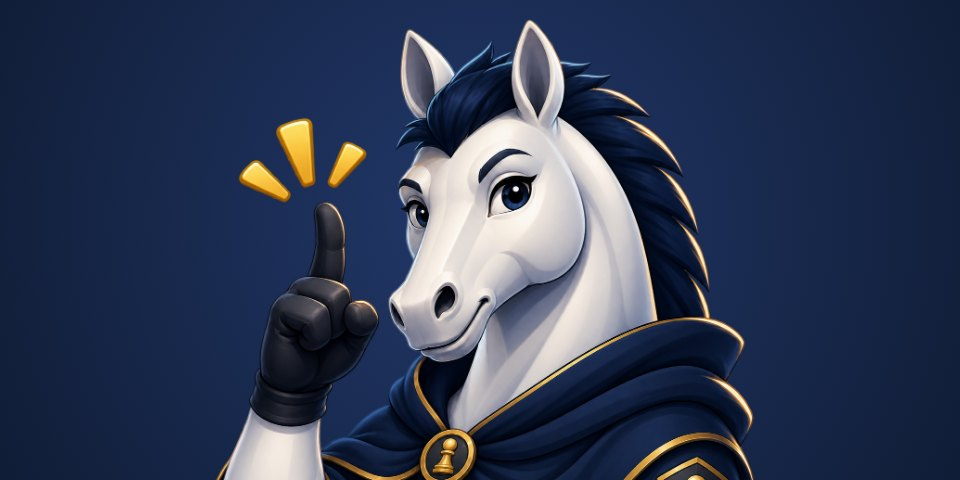
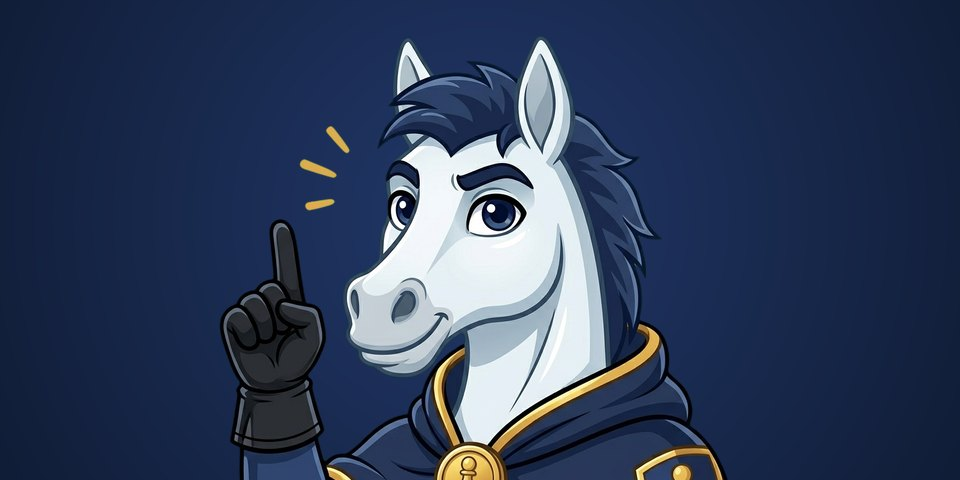
v224: new modern Kael art replaces the old painterly pictures
tools/kael-art.py keys Adrian's 18 green-screen drawings to transparent
PNGs (outside the repo) and writes the four shipped files at display x3:
kael-bust 390, kael-welcome 390 wide, notif daily 192 and daily-wide
960x480. resize-notif.mjs now makes only the badge, so it cannot redraw
the old art. tools/cdp-verify-kael-art.mjs checks every place Kael shows.

diff --git a/sw.js b/sw.js
@@ -1,4 +1,4 @@
-const CACHE = 'chess-training-center-v223';
+const CACHE = 'chess-training-center-v224';
 // Transient hand-off for the Web Share Target: the POST below stashes the shared
 // file here and the app reads it on the next load. Kept OUT of the version wipe in
 // `activate` so an update mid-share doesn't drop it.

diff --git a/tools/kael-art.py b/tools/kael-art.py
@@ -1,0 +1,117 @@
+"""Kael art: green-screen key + the shipped sizes. Dev tool, not shipped.
+
+    python -I tools/kael-art.py [artDir]        (artDir defaults to ../chess-app-art/kael)
+
+The drawings (1024x1024 JPEG *.jfif on flat #00FF00) live OUTSIDE the repo.
+Step 1 keys every one of them to a transparent 1024 PNG in <artDir>/final/
+(the three widget pictures also at 512); kael-widget-atrisk was drawn
+mirrored, so it is flipped. Step 2 writes what the app ships, sized from the
+largest place each is shown x 3 for phone pixel density:
+  icons/kael/kael-bust.png     390 square   (.kael-portrait is 130px wide)
+  icons/kael/kael-welcome.png  390 wide     (same), trimmed to the figure
+  icons/notif/daily.png        192 square   kael-notif, notification icon
+  icons/notif/daily-wide.jpg   960x480      kael-notif on navy, expanded notification
+icons/notif/badge.png is not Kael: tools/resize-notif.mjs makes it.
+"""
+import sys, os, glob
+import numpy as np
+from PIL import Image, ImageFilter
+
+ROOT = os.path.dirname(os.path.dirname(os.path.abspath(__file__)))
+ART = sys.argv[1] if len(sys.argv) > 1 else os.path.join(os.path.dirname(ROOT), 'chess-app-art', 'kael')
+FINAL = os.path.join(ART, 'final')
+FLIP = {'kael-widget-atrisk'}
+WIDGET = {'kael-widget-lit', 'kael-widget-atrisk', 'kael-widget-zero'}
+LO, HI = 28.0, 110.0   # greenness (g - max(r, b)) over which alpha falls from 1 to 0
+
+
+def key(path):
+    """Transparent RGBA from a green-screen JPEG: alpha from how green each
+    pixel is, green spill clamped, JPEG speckle removed, edge pulled in ~1px."""
+    im = np.asarray(Image.open(path).convert('RGB')).astype(np.float32)
+    d = im[..., 1] - np.maximum(im[..., 0], im[..., 2])
+    a = np.clip(1.0 - (d - LO) / (HI - LO), 0.0, 1.0)
+    im[..., 1] = np.minimum(im[..., 1], np.maximum(im[..., 0], im[..., 2]))
+    A = Image.fromarray((a * 255).astype(np.uint8))
+    A = A.filter(ImageFilter.MedianFilter(3)).filter(ImageFilter.MinFilter(3)).filter(ImageFilter.GaussianBlur(0.6))
+    A = np.asarray(A).astype(np.float32)
+    A[A < 8] = 0
+    im[A == 0] = 0
+    return Image.fromarray(np.dstack([im, A]).astype(np.uint8), 'RGBA')
+
+
+def resize(pic, size):
+    """Premultiplied Lanczos resize, so no colour bleeds in from clear pixels."""
+    a = np.asarray(pic.convert('RGBA')).astype(np.float32) / 255
+    pm = np.dstack([a[..., :3] * a[..., 3:4], a[..., 3]])
+    r, g, b, A = [np.asarray(Image.fromarray(pm[..., i] * 255, 'F').resize(size, Image.LANCZOS)) / 255 for i in range(4)]
+    A = np.clip(A, 0, 1)
+    rgb = np.clip(np.dstack([r, g, b]) / np.maximum(A, 1e-4)[..., None], 0, 1)
+    rgb[..., 1] = np.minimum(rgb[..., 1], np.maximum(rgb[..., 0], rgb[..., 2]))
+    rgb[A < 1 / 255] = 0
+    return Image.fromarray(np.dstack([rgb * 255, A * 255]).round().astype(np.uint8), 'RGBA')
+
+
+def trim(pic, pad=16):
+    x0, y0, x1, y1 = pic.getchannel('A').point(lambda v: 255 if v > 8 else 0).getbbox()
+    return pic.crop((max(x0 - pad, 0), max(y0 - pad, 0), min(x1 + pad, pic.width), min(y1 + pad, pic.height)))
+
+
+def banner(pic, w, h):
+    """The expanded-notification picture: Android crops it to about 2:1, so the
+    bust is drawn taller than the banner and runs off the bottom edge, on the
+    app's navy (radial #22386a -> #0f1b33). Opaque, so JPEG."""
+    yy, xx = np.mgrid[0:h, 0:w].astype(np.float32)
+    t = np.clip(np.hypot(xx - w / 2, yy - h * 0.45) / (w * 0.6), 0, 1)[..., None]
+    bg = np.array([0x22, 0x38, 0x6a]) * (1 - t) + np.array([0x0f, 0x1b, 0x33]) * t
+    out = Image.fromarray(bg.round().astype(np.uint8), 'RGB').convert('RGBA')
+    ih = round(h * 1.25); iw = round(pic.width * ih / pic.height)
+    out.alpha_composite(resize(pic, (iw, ih)), (round((w - iw) / 2), round(h * 0.04)))
+    return out.convert('RGB')
+
+
+def smooth(pic):
+    """Median-filter the colour (not the alpha): the JPEG noise in the
+    drawings is what makes a PNG big, and the flat cartoon art loses nothing."""
+    rgb = pic.convert('RGB').filter(ImageFilter.MedianFilter(3))
+    return Image.merge('RGBA', (*rgb.split(), pic.getchannel('A')))
+
+
+def save(pic, rel, budget=100 * 1024):
+    """A .png is precached, so it must stay small: round the colours to the
+    finest step that fits the budget (step 4 is invisible on this art)."""
+    path = os.path.join(ROOT, rel)
+    if rel.endswith('.jpg'):
+        pic.save(path, quality=86, optimize=True)
+    else:
+        for step in (1, 2, 4, 6, 8):
+            a = np.asarray(pic).astype(np.int32)
+            a[..., :3] = np.clip((a[..., :3] + step // 2) // step * step, 0, 255)
+            a[..., 3][a[..., 3] > 247] = 255
+            a[a[..., 3] == 0, :3] = 0
+            Image.fromarray(a.astype(np.uint8), 'RGBA').save(path, optimize=True)
+            if os.path.getsize(path) <= budget:
+                break
+        print(f'  colour step {step}')
+    print(f'{rel}  {pic.width}x{pic.height}  {os.path.getsize(path) / 1024:.1f} KB')
+
+
+os.makedirs(FINAL, exist_ok=True)
+keyed = {}
+for f in sorted(glob.glob(os.path.join(ART, '*.jfif'))):
+    name = os.path.splitext(os.path.basename(f))[0]
+    name = 'kael-model-sheet' if name == 'model sheet' else name
+    pic = key(f)
+    if name in FLIP:
+        pic = pic.transpose(Image.FLIP_LEFT_RIGHT)
+    pic.save(os.path.join(FINAL, name + '.png'), optimize=True)
+    if name in WIDGET:
+        resize(pic, (512, 512)).save(os.path.join(FINAL, name + '-512.png'), optimize=True)
+    keyed[name] = pic
+print(f'{len(keyed)} keyed into {FINAL}')
+
+save(resize(smooth(keyed['kael-bust']), (390, 390)), 'icons/kael/kael-bust.png')
+wel = smooth(trim(keyed['kael-welcome']))
+save(resize(wel, (390, round(wel.height * 390 / wel.width))),'icons/kael/kael-welcome.png')
+save(resize(smooth(keyed['kael-notif']), (192, 192)), 'icons/notif/daily.png')
+save(banner(keyed['kael-notif'], 960, 480), 'icons/notif/daily-wide.jpg')

diff --git a/HANDOVER.md b/HANDOVER.md
@@ -9,6 +9,29 @@ are in `CLAUDE.md` under "Finish by pushing".
 
 ## Already done and pushed — do NOT redo these
 
+- **NEW MODERN KAEL ART IN THE APP (2026-10-14, v224).** Adrian's 18 new drawings (1024 JPEG
+  `.jfif` on #00FF00, in `C:\Users\Adrian\chess-app-art\kael\`, OUTSIDE the repo, canon in its
+  KAEL-PROMPTS.md) replace the old painterly Kael. ONE TOOL: `python -I tools/kael-art.py`.
+  It keys all 18 to transparent 1024 PNGs in `chess-app-art\kael\final\` (widget lit/atrisk/zero
+  also as `-512.png`; `kael-widget-atrisk` is flipped, it was drawn mirrored; "model sheet" ->
+  `kael-model-sheet.png`, reference only) and writes the 4 shipped files, sized from the largest
+  display x 3: `icons/kael/kael-bust.png` 390x390 (99.8 KB), `icons/kael/kael-welcome.png`
+  390x450 trimmed to the figure (107 KB), `icons/notif/daily.png` 192 (52 KB, from kael-notif),
+  `icons/notif/daily-wide.jpg` 960x480 on the navy radial (44 KB). KEY: alpha from g-max(r,b)
+  (28..110), green clamped to max(r,b), alpha median+1px erode; ship sizes median-smoothed and
+  colour-rounded to fit ~100 KB (a 256-colour palette was tried: visible dither, rejected).
+  File names unchanged, so NO code/CSS change: measured, the bust's head sits fully inside the
+  inscribed circle (only the cloak's bottom corners are cut), the muzzle tip 92 px (of 1024)
+  inside the edge. The old bust was opaque; the circles' own #f2eee6 ground now shows behind.
+  `tools/resize-notif.mjs` now makes ONLY badge.png (it used to redraw daily* from the old
+  Notification/Daily reminder.png, which is still on disk and would have put the old art back).
+  VERIFIED: new `tools/cdp-verify-kael-art.mjs` 40/40 (level picker + tour offer = welcome; tour
+  circle 42px, Home ring 44px, #kael-fab 48px, calc line 32px, calc intro 90px, history empty
+  96px, a 130px portrait as GameReview uses, the invite's daily.png 110px; ES/EN x light/dark at
+  375, 4x close-ups of each circle), cdp-verify-remind 44/44, test:precache, test:tree 475/475,
+  test:rules pass. The 11 faces are NOT used in the app yet (Adrian decides where);
+  "worried" was never drawn.
+
 - **HOME-SCREEN STREAK WIDGET, ANDROID PART (2026-10-14, app 1.0.6 / versionCode 8).** Built
   in `C:\Users\Adrian\chess-app-android`, which NOW HAS LOCAL GIT (no remote; android.keystore,
   local.properties, *.aab/*.apk and build/ are in .gitignore): baseline commit 4e4e2a3, widget
